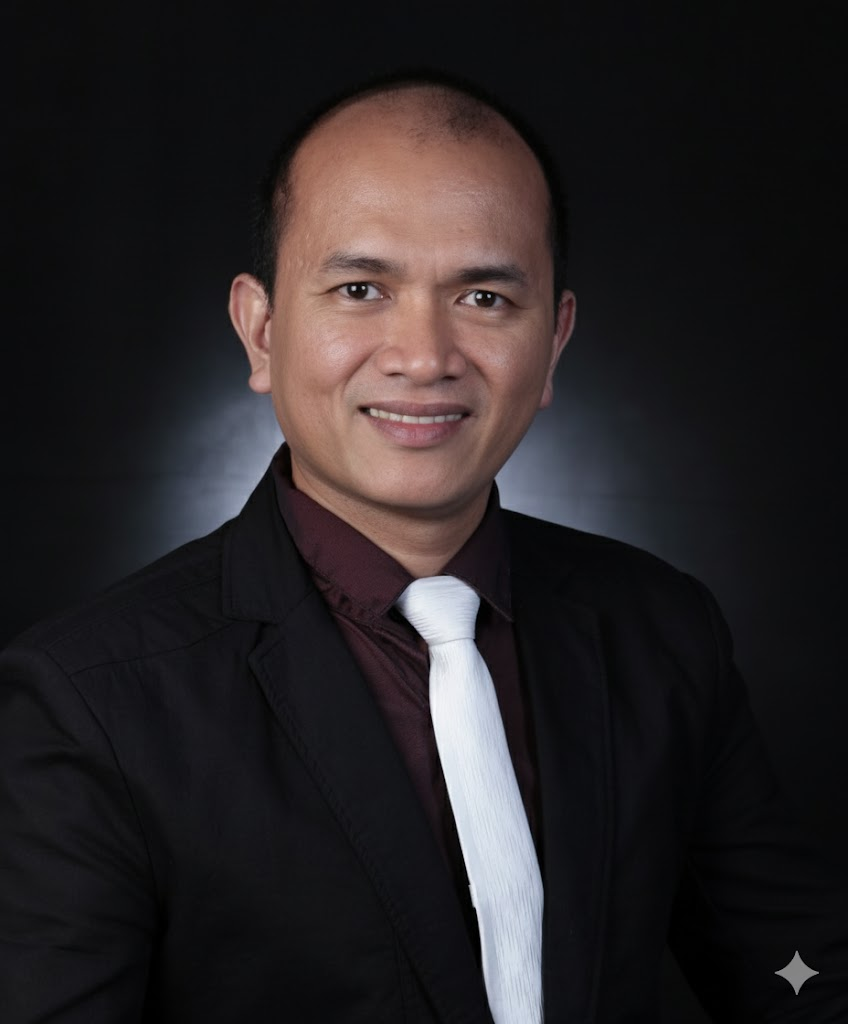
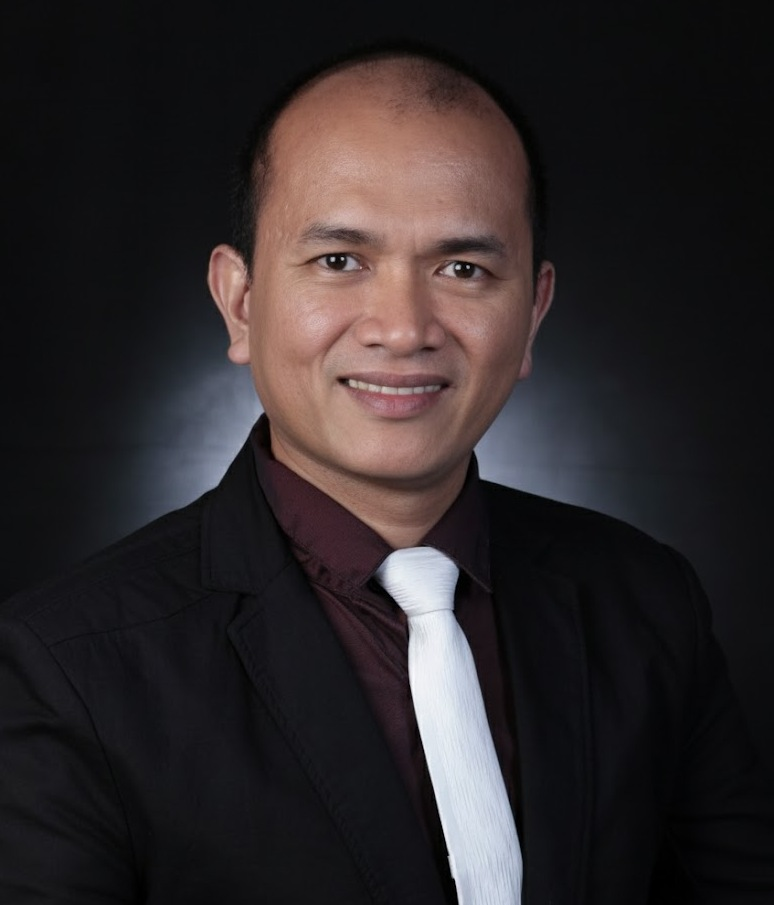
Portfolio

Changed region(s): [[0.155, 0.0619, 0.8372, 1.0], [0.8992, 0.9282, 0.9612, 0.9901], [0.3411, 0.1238, 0.3721, 0.2166]]

diff --git a/index.html b/index.html
@@ -146,7 +146,7 @@
     <main id="top" class="pt-20 md:pt-24">
       <!-- HERO -->
       <section
-        class="relative overflow-hidden py-16 sm:py-20 lg:py-24 border-b border-slate-200/60 dark:border-slate-800/60"
+        class="relative overflow-hidden py-16 sm:py-20 lg:py-24 border-b border-slate-200/60 dark:border-slate-800/60 min-h-[80vh] flex items-center"
       >
         <!-- Gradient blobs -->
         <div class="pointer-events-none absolute inset-0 -z-10">
@@ -161,7 +161,7 @@
           ></div>
         </div>
 
-        <div class="max-w-6xl mx-auto px-4 sm:px-6 lg:px-8">
+        <div class="max-w-6xl mx-auto px-4 sm:px-6 lg:px-8 w-full">
           <div
             class="grid gap-10 lg:grid-cols-[1.2fr,0.9fr] items-center reveal"
           >
@@ -192,7 +192,7 @@
                 universities, training centers, and industry partners.
               </p>
 
-              <!-- CTA buttons (no personal contact info) -->
+              <!-- CTA buttons -->
               <div class="flex flex-wrap items-center gap-3 mb-6">
                 <a
                   href="#experience"
@@ -271,7 +271,7 @@
                   <img
                     src="img/portfolio.jpg"
                     alt="Professional portrait of an IT instructor and technical trainer"
-                    class="w-full h-64 sm:h-72 object-cover transform hover:scale-105 transition-transform duration-700"
+                    class="hero-photo w-full transform hover:scale-105 transition-transform duration-700"
                   />
                 </div>
 
@@ -286,6 +286,22 @@
                     hands-on technical training in Microsoft 365, web
                     development, and data-driven technologies.
                   </p>
+
+                  <!-- Small badges inside the card (area you pointed to) -->
+                  <div class="mt-3 flex flex-wrap gap-2 text-[11px]">
+                    <span
+                      class="inline-flex items-center rounded-full px-3 py-1 bg-accent/10 text-accent font-medium"
+                    >
+                      <i class="fa-solid fa-chalkboard-user mr-1.5"></i>
+                      Seasoned IT Instructor
+                    </span>
+                    <span
+                      class="inline-flex items-center rounded-full px-3 py-1 bg-indigo-500/10 text-indigo-400 font-medium"
+                    >
+                      <i class="fa-solid fa-cloud mr-1.5"></i>
+                      Microsoft 365 Trainer
+                    </span>
+                  </div>
                 </div>
               </div>
             </div>

diff --git a/js/main.js b/js/main.js
@@ -23,11 +23,11 @@ function updateThemeToggleUI() {
   if (isDark) {
     themeIcon.classList.remove('fa-moon');
     themeIcon.classList.add('fa-sun');
-    themeText && (themeText.textContent = 'Light');
+    if (themeText) themeText.textContent = 'Light';
   } else {
     themeIcon.classList.remove('fa-sun');
     themeIcon.classList.add('fa-moon');
-    themeText && (themeText.textContent = 'Dark');
+    if (themeText) themeText.textContent = 'Dark';
   }
 }
 

diff --git a/css/style.css b/css/style.css
@@ -19,6 +19,12 @@ html {
   opacity: 0.7;
 }
 
+.hero-photo {
+  display: block;
+  width: 100%;
+  height: auto; /* keep original proportions */
+}
+
 @media (prefers-reduced-motion: reduce) {
   html {
     scroll-behavior: auto;
